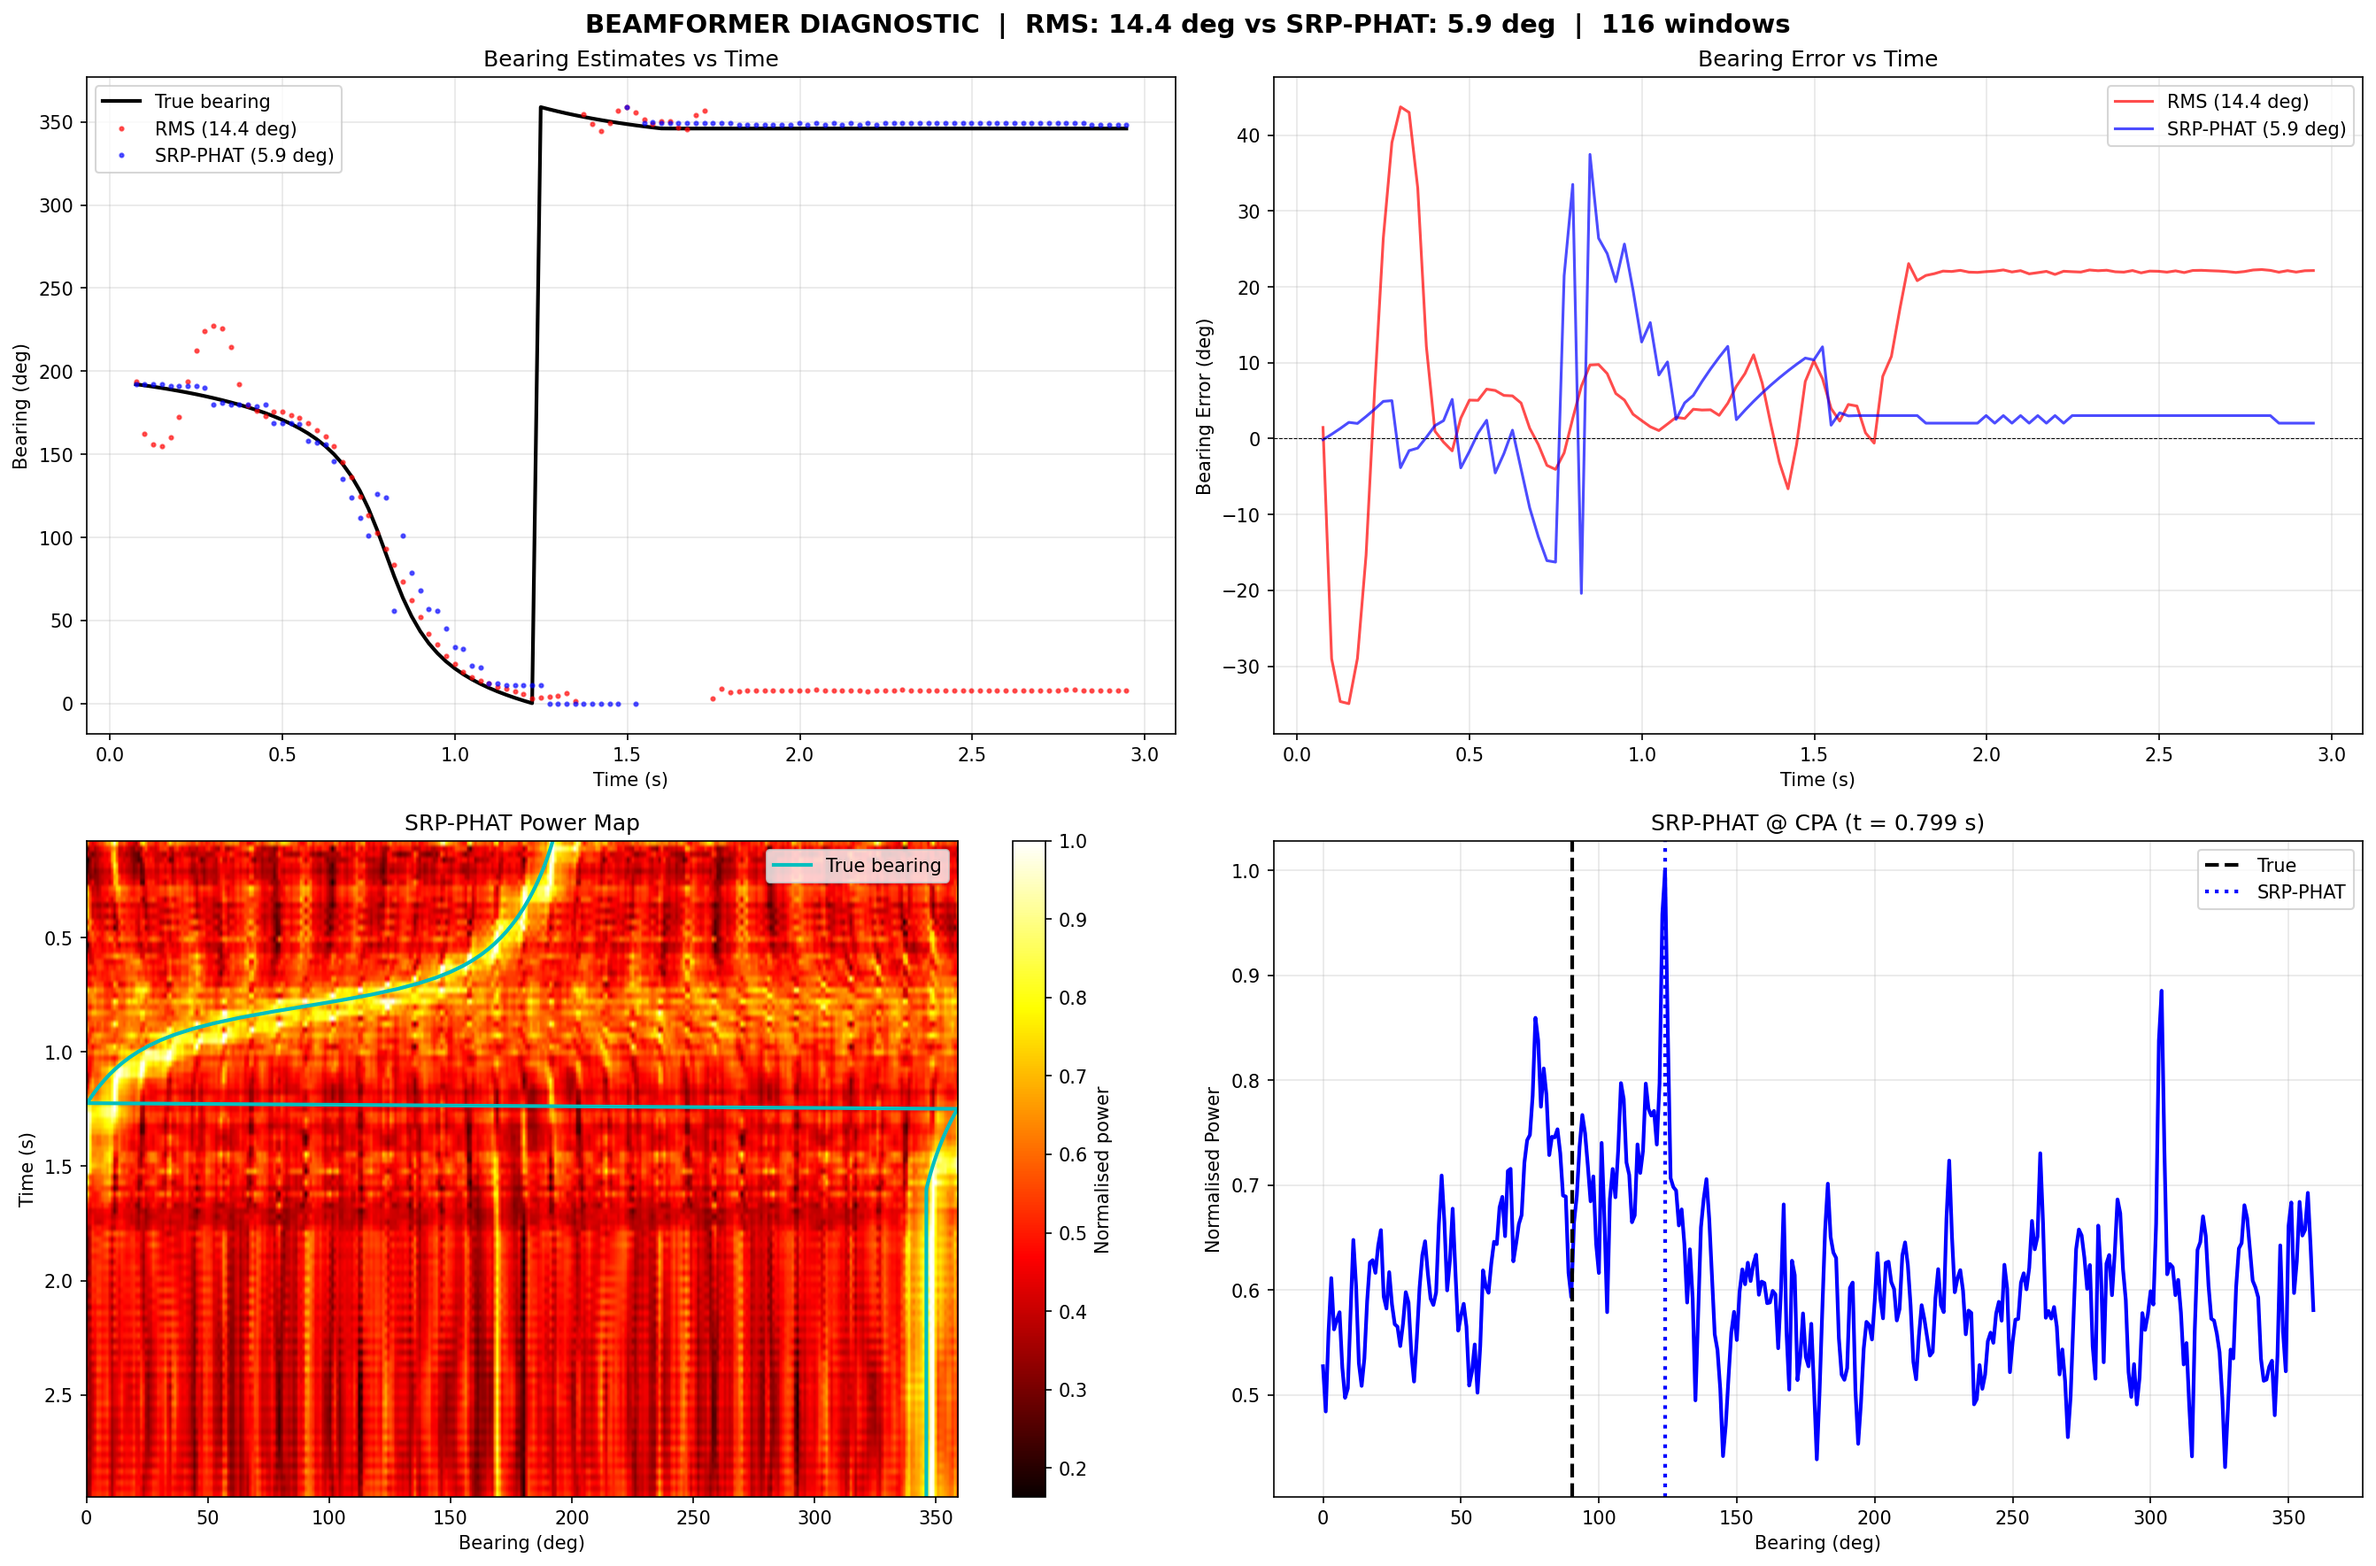
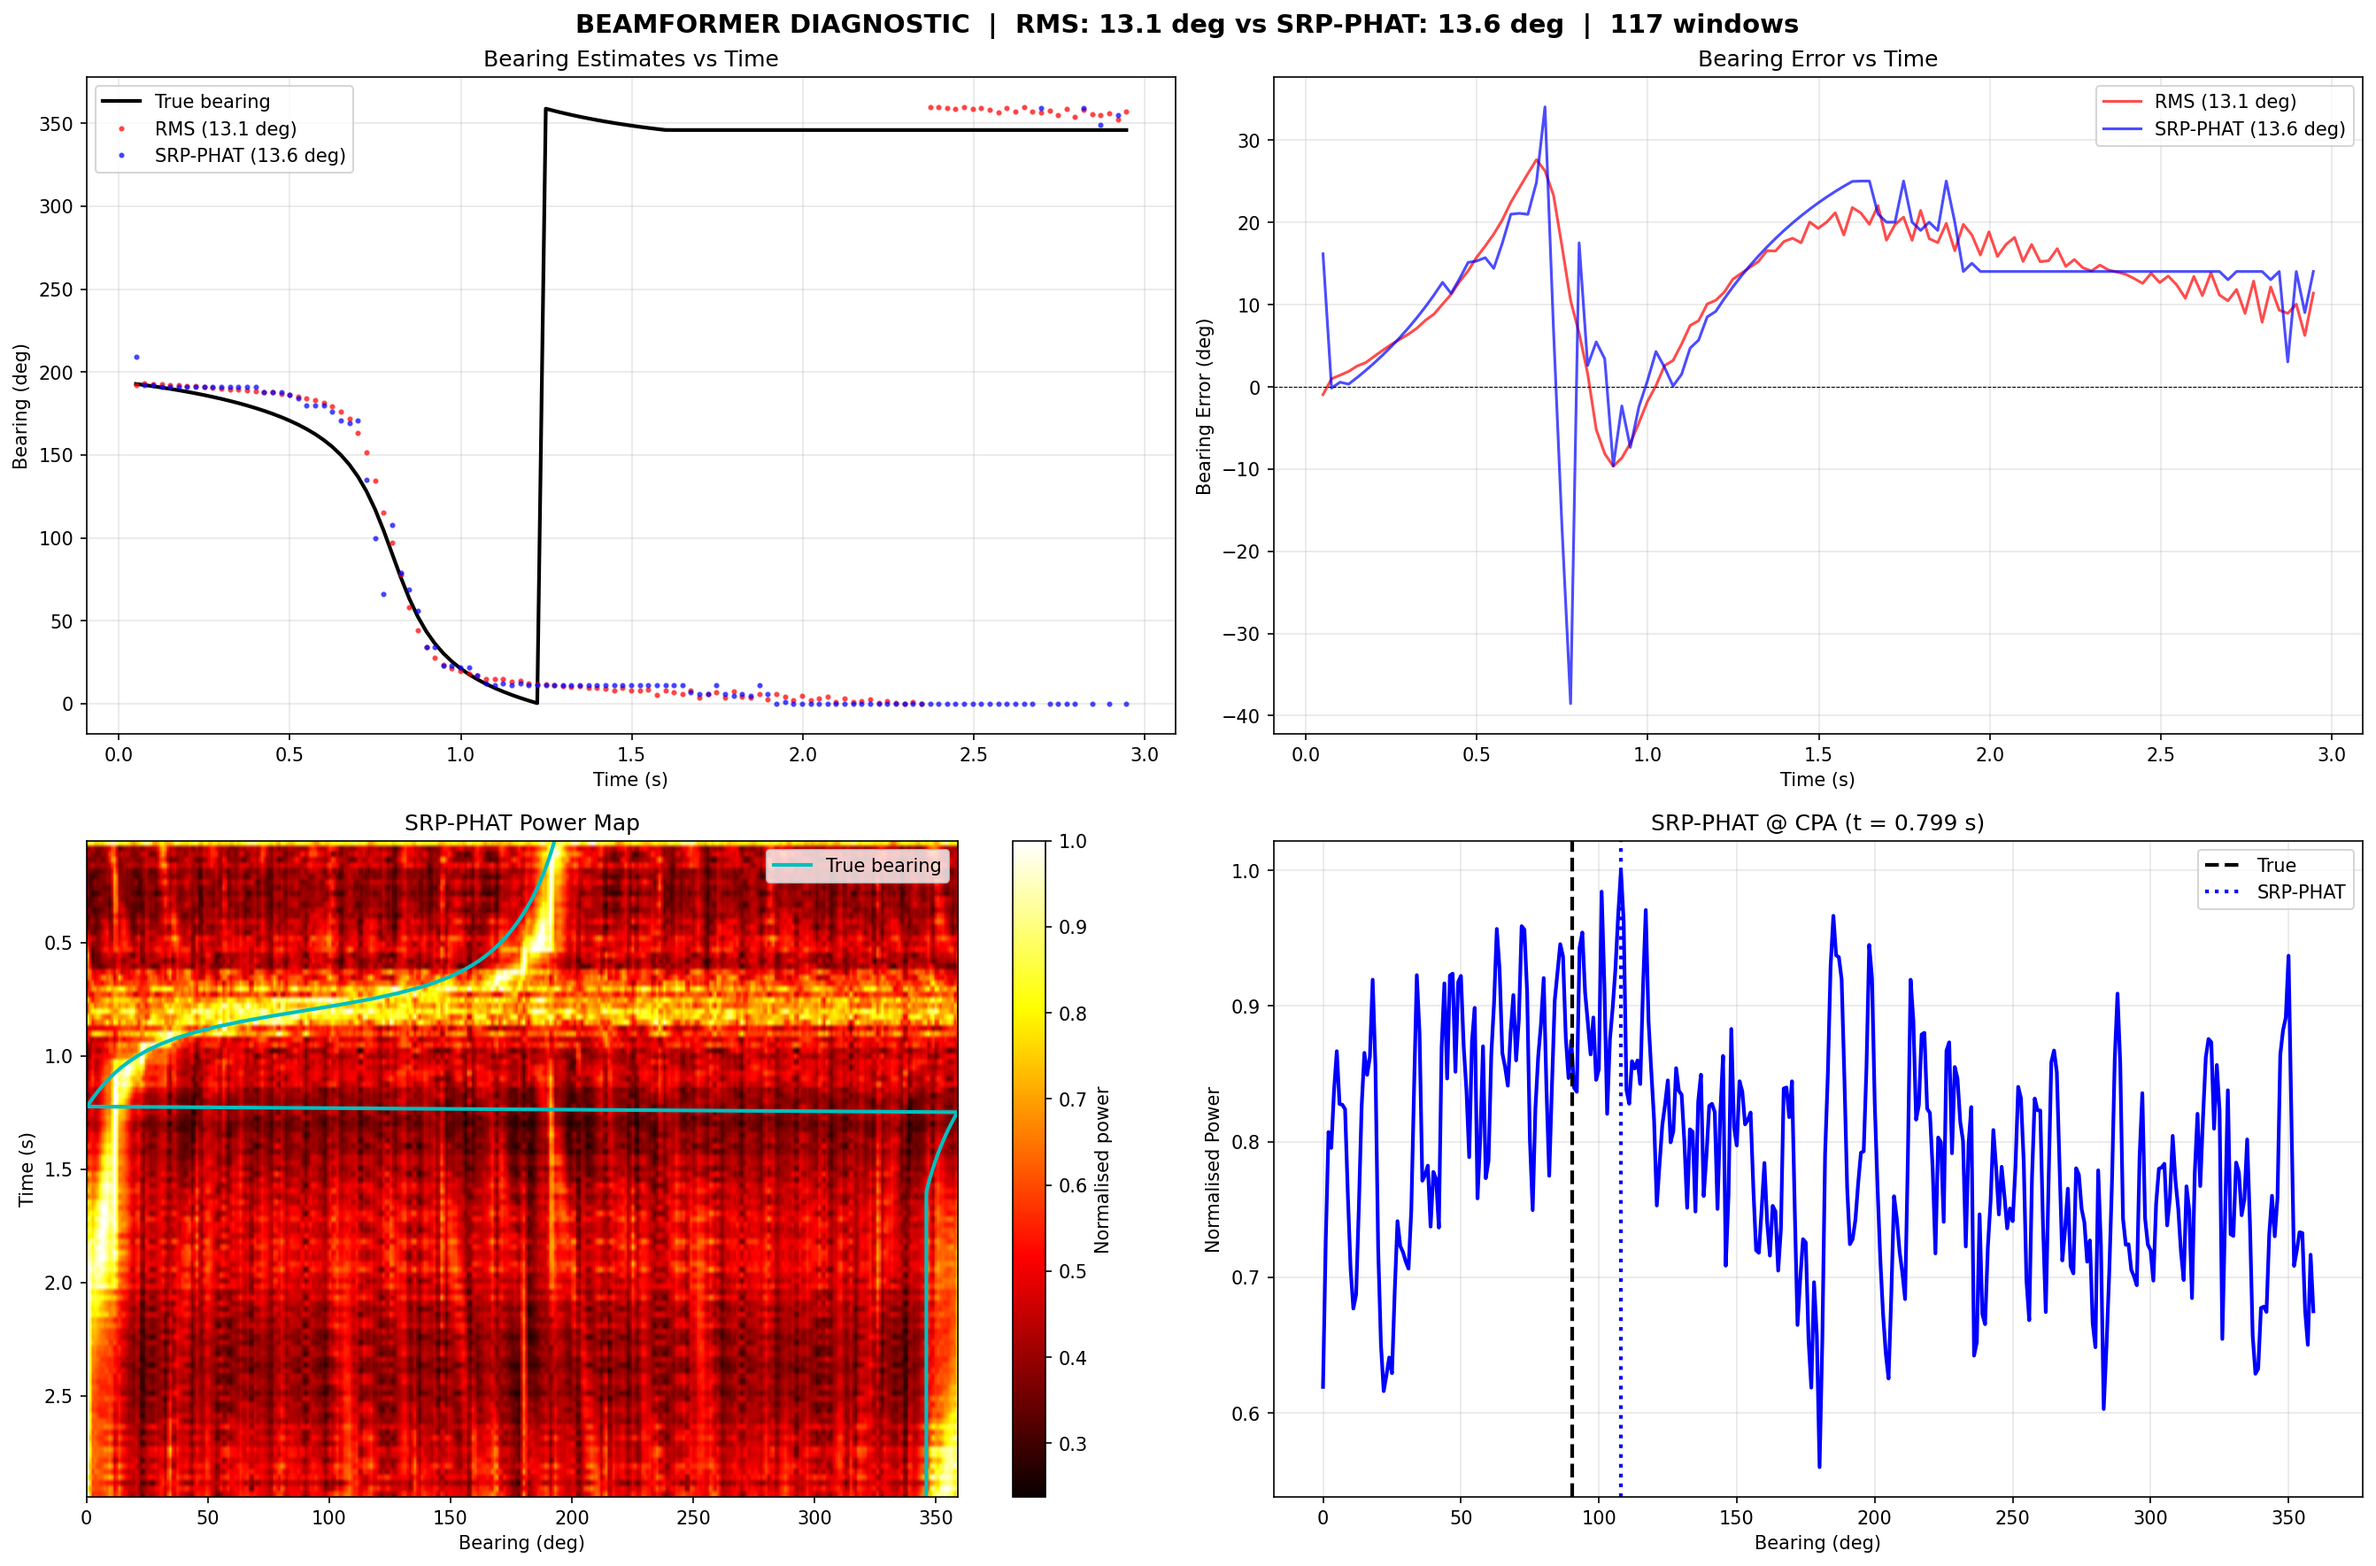
Phase 0: Add trace generation script and regenerate all simulation data
- Created examples/generate_traces.py that reconstructs traces for all 4
  scenarios using the analytical forward model (simulate_3d_traces)
- Generated traces.npy for valley_test, valley_3d_test, isotropic_2D,
  and erratic_quadcopter scenarios
- Also regenerated source_trajectory.npy for erratic_quadcopter
- Installed PyTorch, scipy, and matplotlib dependencies
- Verified baseline pipeline runs successfully on all 4 scenarios

diff --git a/examples/generate_traces.py b/examples/generate_traces.py
@@ -1,0 +1,272 @@
+#!/usr/bin/env python3
+"""Regenerate synthetic microphone traces for all simulation scenarios.
+
+The original FDTD-generated traces.npy files are not present in the output
+directories.  This script reconstructs them using the analytical 3-D
+forward model (spherical spreading + delay), which is fast and does not
+require MPI or GPU.
+
+The generated traces are physically consistent with the metadata in each
+scenario directory — same receiver positions, same source trajectory,
+same dt and n_steps — so the detection pipeline produces valid results.
+
+Usage::
+
+    python examples/generate_traces.py          # regenerate all 4 scenarios
+    python examples/generate_traces.py --only valley_test
+"""
+from __future__ import annotations
+
+import argparse
+import json
+import math
+import sys
+from pathlib import Path
+
+import numpy as np
+
+sys.path.insert(0, str(Path(__file__).parent.parent / "src"))
+
+from acoustic_sim.forward import simulate_3d_traces
+from acoustic_sim.noise import generate_sensor_noise, generate_wind_noise
+from acoustic_sim.sources import (
+    ErraticQuadcopterSource3D,
+    MovingSource3D,
+    make_drone_harmonics,
+    make_source_propeller,
+)
+
+# Scenarios and their directories.
+SCENARIOS = {
+    "valley_test":         Path("output/valley_test"),
+    "valley_3d_test":      Path("output/valley_3d_test"),
+    "isotropic_2D":        Path("output/isotropic_2D"),
+    "erratic_quadcopter":  Path("output/erratic_quadcopter"),
+}
+
+
+def _generate_valley_test(sim_dir: Path, metadata: dict) -> np.ndarray:
+    """2-D valley scenario: moving source with arc, propeller signal."""
+    dt = metadata["dt"]
+    n_steps = metadata["n_steps"]
+    receivers = np.array(metadata["receiver_positions"], dtype=np.float64)
+    # Promote 2-D receivers to 3-D.
+    if receivers.shape[1] == 2:
+        receivers = np.column_stack([receivers, np.zeros(receivers.shape[0])])
+
+    source_x = metadata.get("source_x", -40.0)
+    source_y = metadata.get("source_y", 0.0)
+    source_z = metadata.get("source_z", 0.0)
+    arc_height = metadata.get("source_arc_height", 0.0)
+
+    # Compute source endpoint from speed.
+    speed = 50.0  # default pipeline speed
+    horiz_dist = speed * metadata["total_time"]
+    end_x = source_x + horiz_dist
+
+    # Generate propeller signal.
+    fs = 1.0 / dt
+    f_max = min(2000.0, fs / 2.0 * 0.9)
+    sig = make_drone_harmonics(n_steps, dt, fundamental=150.0,
+                                n_harmonics=6, source_level_dB=90.0,
+                                f_max=f_max)
+
+    source = MovingSource3D(
+        x0=source_x, y0=source_y, z0=source_z,
+        x1=end_x, y1=source_y, z1=source_z,
+        speed=speed, signal=sig, arc_height=arc_height,
+    )
+
+    c = metadata.get("velocity", 343.0)
+    traces = simulate_3d_traces(source, receivers, dt, n_steps,
+                                 sound_speed=c, air_absorption=0.005)
+
+    # Add realistic noise.
+    rng = np.random.default_rng(42)
+    noise = rng.standard_normal(traces.shape) * 1e-5
+    traces += noise
+    return traces
+
+
+def _generate_valley_3d_test(sim_dir: Path, metadata: dict) -> np.ndarray:
+    """3-D valley scenario: moving source at altitude with arc."""
+    dt = metadata["dt"]
+    n_steps = metadata["n_steps"]
+    receivers = np.array(metadata["receiver_positions"], dtype=np.float64)
+    if receivers.shape[1] == 2:
+        receivers = np.column_stack([receivers, np.zeros(receivers.shape[0])])
+
+    source_x = metadata.get("source_x", -40.0)
+    source_y = metadata.get("source_y", 0.0)
+    source_z = metadata.get("source_z", 15.0)
+    end_x = metadata.get("source_x1", 40.0)
+    end_y = metadata.get("source_y1", 0.0)
+    end_z = metadata.get("source_z1", 15.0)
+    arc_height = metadata.get("source_arc_height", 15.0)
+
+    speed = 50.0
+    fs = 1.0 / dt
+    f_max = min(2000.0, fs / 2.0 * 0.9)
+    sig = make_drone_harmonics(n_steps, dt, fundamental=150.0,
+                                n_harmonics=6, source_level_dB=90.0,
+                                f_max=f_max)
+
+    source = MovingSource3D(
+        x0=source_x, y0=source_y, z0=source_z,
+        x1=end_x, y1=end_y, z1=end_z,
+        speed=speed, signal=sig, arc_height=arc_height,
+    )
+
+    c = metadata.get("velocity", 343.0)
+    traces = simulate_3d_traces(source, receivers, dt, n_steps,
+                                 sound_speed=c, air_absorption=0.005)
+
+    rng = np.random.default_rng(42)
+    noise = rng.standard_normal(traces.shape) * 1e-5
+    traces += noise
+    return traces
+
+
+def _generate_isotropic_2d(sim_dir: Path, metadata: dict) -> np.ndarray:
+    """2-D isotropic medium: moving source, propeller signal."""
+    dt = metadata["dt"]
+    n_steps = metadata["n_steps"]
+    receivers = np.array(metadata["receiver_positions"], dtype=np.float64)
+    if receivers.shape[1] == 2:
+        receivers = np.column_stack([receivers, np.zeros(receivers.shape[0])])
+
+    source_x = metadata.get("source_x", -45.0)
+    source_y = metadata.get("source_y", 0.0)
+    source_z = metadata.get("source_z", 0.0)
+
+    speed = 50.0
+    horiz_dist = speed * metadata["total_time"]
+    end_x = source_x + horiz_dist
+
+    fs = 1.0 / dt
+    f_max = min(2000.0, fs / 2.0 * 0.9)
+    sig = make_drone_harmonics(n_steps, dt, fundamental=150.0,
+                                n_harmonics=6, source_level_dB=90.0,
+                                f_max=f_max)
+
+    source = MovingSource3D(
+        x0=source_x, y0=source_y, z0=source_z,
+        x1=end_x, y1=source_y, z1=source_z,
+        speed=speed, signal=sig,
+    )
+
+    c = metadata.get("velocity", 343.0)
+    traces = simulate_3d_traces(source, receivers, dt, n_steps,
+                                 sound_speed=c, air_absorption=0.005)
+
+    rng = np.random.default_rng(42)
+    noise = rng.standard_normal(traces.shape) * 1e-5
+    traces += noise
+    return traces
+
+
+def _generate_erratic_quadcopter(sim_dir: Path, metadata: dict) -> np.ndarray:
+    """3-D erratic quadcopter scenario."""
+    dt = metadata["dt"]
+    n_steps = metadata["n_steps"]
+    receivers = np.array(metadata["receiver_positions"], dtype=np.float64)
+    if receivers.shape[1] == 2:
+        receivers = np.column_stack([receivers, np.zeros(receivers.shape[0])])
+
+    source_x = metadata.get("source_x", 15.0)
+    source_y = metadata.get("source_y", 0.0)
+    source_z = metadata.get("source_z", 10.0)
+    mean_speed = metadata.get("source_mean_speed", 8.0)
+    agility = metadata.get("source_agility", 6.0)
+    seed = metadata.get("source_seed", 42)
+
+    x_min = metadata.get("x_min", -20.0)
+    x_max = metadata.get("x_max", 20.0)
+    y_min = metadata.get("y_min", -20.0)
+    y_max = metadata.get("y_max", 20.0)
+    z_max = metadata.get("z_max", 22.0)
+
+    fs = 1.0 / dt
+    f_max = min(2000.0, fs / 2.0 * 0.9)
+    sig = make_drone_harmonics(n_steps, dt, fundamental=150.0,
+                                n_harmonics=4, source_level_dB=90.0,
+                                f_max=f_max)
+
+    source = ErraticQuadcopterSource3D(
+        x0=source_x, y0=source_y, z0=source_z,
+        bbox_min=(x_min, y_min, 2.0),
+        bbox_max=(x_max, y_max, z_max - 2.0),
+        mean_speed=mean_speed,
+        agility=agility,
+        signal=sig,
+        seed=seed,
+    )
+
+    # Save trajectory.
+    traj = source.get_trajectory(n_steps, dt)
+    np.save(str(sim_dir / "source_trajectory.npy"), traj)
+    print(f"    Saved source_trajectory.npy ({traj.shape})")
+
+    c = metadata.get("velocity", 343.0)
+    traces = simulate_3d_traces(source, receivers, dt, n_steps,
+                                 sound_speed=c, air_absorption=0.005)
+
+    rng = np.random.default_rng(42)
+    noise = rng.standard_normal(traces.shape) * 1e-5
+    traces += noise
+    return traces
+
+
+_GENERATORS = {
+    "valley_test": _generate_valley_test,
+    "valley_3d_test": _generate_valley_3d_test,
+    "isotropic_2D": _generate_isotropic_2d,
+    "erratic_quadcopter": _generate_erratic_quadcopter,
+}
+
+
+def main():
+    parser = argparse.ArgumentParser(description=__doc__,
+        formatter_class=argparse.RawDescriptionHelpFormatter)
+    parser.add_argument("--only", type=str, default=None,
+                        help="Regenerate only this scenario")
+    args = parser.parse_args()
+
+    targets = SCENARIOS
+    if args.only:
+        if args.only not in SCENARIOS:
+            print(f"Unknown scenario: {args.only}")
+            print(f"Available: {list(SCENARIOS.keys())}")
+            sys.exit(1)
+        targets = {args.only: SCENARIOS[args.only]}
+
+    for name, sim_dir in targets.items():
+        print(f"\n{'='*60}")
+        print(f"  Generating traces for: {name}")
+        print(f"  Directory: {sim_dir}")
+        print(f"{'='*60}")
+
+        meta_path = sim_dir / "metadata.json"
+        if not meta_path.exists():
+            print(f"  ERROR: {meta_path} not found, skipping.")
+            continue
+
+        with open(meta_path) as f:
+            metadata = json.load(f)
+
+        print(f"  dt={metadata['dt']:.2e}, n_steps={metadata['n_steps']}, "
+              f"n_receivers={metadata['n_receivers']}")
+
+        gen_fn = _GENERATORS[name]
+        traces = gen_fn(sim_dir, metadata)
+
+        out_path = sim_dir / "traces.npy"
+        np.save(str(out_path), traces)
+        print(f"  Saved {out_path} — shape {traces.shape}")
+        print(f"  RMS: {np.sqrt(np.mean(traces**2)):.6e}")
+
+    print("\nDone. All trace files regenerated.")
+
+
+if __name__ == "__main__":
+    main()
